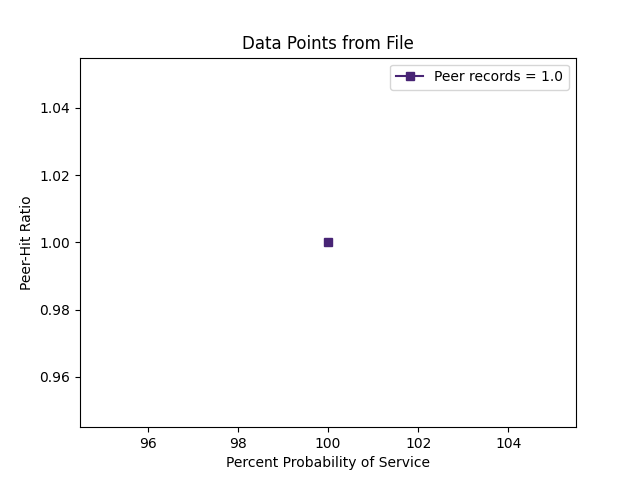
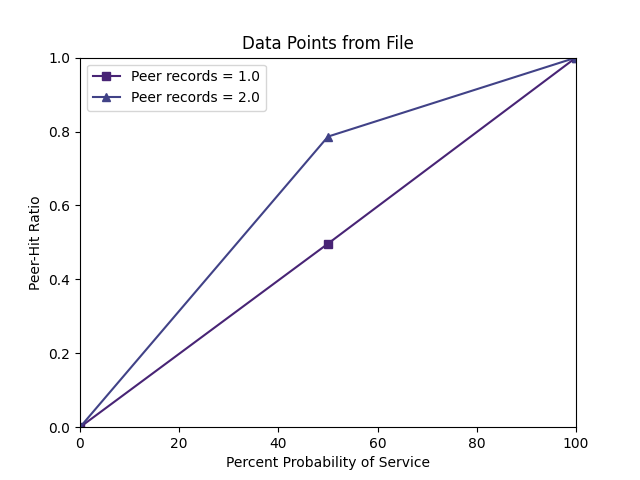
fixes for all experiment related issues and verbosity drop for experiment

diff --git a/service.py b/service.py
@@ -18,14 +18,14 @@ SERVICE_SOCKET_TIMEOUT_S = 5
 # Experiment configuration
 
 # to configure
-EXPERIMENT_START_EXPECTED_PARTICIPANTS = 3
+EXPERIMENT_START_EXPECTED_PARTICIPANTS = 5
 EXPERIMENT_ANSWER_PROBABILITY_PCENT_MIN = 0
 EXPERIMENT_ANSWER_PROBABILITY_PCENT_MAX = 100
-EXPERIMENT_ANSWER_PROBABILITY_PCENT_INTERVAL = 50
+EXPERIMENT_ANSWER_PROBABILITY_PCENT_INTERVAL = 20
 SHOULD_PEER_REASK = 0
 RECORDS_TO_ACQUIRE_MIN = 1
-RECORDS_TO_ACQUIRE_MAX = 2
-QUERIES_PER_EXPERIMENT = 10
+RECORDS_TO_ACQUIRE_MAX = 5
+QUERIES_PER_EXPERIMENT = 50
 
 # orchestation
 EXPERIMENT_READY_PARTICIPANTS_LOCK = threading.Lock()
@@ -77,19 +77,22 @@ def analysis_clear_data_file():
 
 def analysis_write_point(records_returned_line,answer_prob,total,direct):
     with open(data_filename,"a") as file:
+        if total == 0:
+            print("{RED}OK now it's verified that for some reason we get 0 total requests on the counter{RESET}",flush=True)
+            exit()
         peer_hit_ratio = (float)(total-direct) / (float)(total)
         to_write = f"{records_returned_line} {answer_prob} {peer_hit_ratio}\n"
         file.write(to_write)
     return
 
 def experiment_counters_reset():
-    SharedVarsExperiment.SS_REQUESTS_RECEIVED = 0
-    SharedVarsExperiment.SS_REQUESTS_DIRECT = 0
+    with SharedVarsExperiment.SS_COUNTERS_LOCK:
+        SharedVarsExperiment.SS_REQUESTS_RECEIVED = 0
+        SharedVarsExperiment.SS_REQUESTS_DIRECT = 0
 
 def start_experiment():
 
     analysis_clear_data_file()
-    global EXPERIMENT_PARTICIPANTS_SOCKETS
     global SHOULD_PEER_REASK
     global RECORDS_TO_ACQUIRE_MIN
     global RECORDS_TO_ACQUIRE_MAX
@@ -97,10 +100,7 @@ def start_experiment():
     global EXPERIMENT_ANSWER_PROBABILITY_PCENT_MIN
     global EXPERIMENT_ANSWER_PROBABILITY_PCENT_MAX
     global EXPERIMENT_ANSWER_PROBABILITY_PCENT_INTERVAL
-    global EXPERIMENT_READY_PARTICIPANTS_LOCK
-    global EXPERIMENT_PARTICIPANTS_COUNTER
     global EXPERIMENT_PARTICIPANTS_SOCKETS
-    global EXPERIMENT_START_EXPECTED_PARTICIPANTS
     global IS_EXPERIMENT
 
     print(f"{CYAN}Experiments will start in 5 seconds!{RESET}")
@@ -121,6 +121,7 @@ def start_experiment():
 
     experiment_counter = 0
 
+    SECONDS_EXPERIMENT_BEGIN = time.time()
     for RECS_TO_GET in range(RECORDS_TO_ACQUIRE_MIN,RECORDS_TO_ACQUIRE_MAX+1):
         for ANS_PROB in range(EXPERIMENT_ANSWER_PROBABILITY_PCENT_MIN,EXPERIMENT_ANSWER_PROBABILITY_PCENT_MAX+1,EXPERIMENT_ANSWER_PROBABILITY_PCENT_INTERVAL):
 
@@ -128,6 +129,8 @@ def start_experiment():
             SharedVarsExperiment.RECORDS_TO_ACQUIRE_PER_QUERY = RECS_TO_GET
             SharedVarsExperiment.OVERRIDE_AVAILABILITY_CHECKS_ON_EARLY_REASKS = 1
             experiment_counter+=1
+            EXPERIMENT_COUNTER_BYTES = struct.pack('<I',(int)(experiment_counter))
+            send_to_all_client_sockets(EXPERIMENT_PARTICIPANTS_SOCKETS,EXPERIMENT_COUNTER_BYTES)
             ANS_PROB_BYTES = struct.pack('<I',(int)( ANS_PROB ) )
             send_to_all_client_sockets(EXPERIMENT_PARTICIPANTS_SOCKETS,ANS_PROB_BYTES)
             REASK_BYTES = b"YES" if (SHOULD_PEER_REASK>0) else b"NOP"
@@ -138,6 +141,8 @@ def start_experiment():
             # reset the counters of the experiment
             experiment_counters_reset()
 
+            time.sleep(2) # We are giving all the experiment threads on the devices time to read the data send before we send the signal to start this instance of the experiment
+
             print(f"{CYAN}\nNow on experiment #{experiment_counter}\n" +
                     f"Serving peer records received per query = {RECS_TO_GET}\n" +
                     f"Serving probability = {ANS_PROB}%\n"
@@ -146,12 +151,21 @@ def start_experiment():
             # send the signal to start
             send_to_all_client_sockets(EXPERIMENT_PARTICIPANTS_SOCKETS,b"START")
 
+            # the devices run the experiment independetly
+            print(f"{CYAN}Experiment #{experiment_counter} is now running. The START signal was send to all the epxeriment participants{RESET}")
+
             # wait for all of the partiicipants to send back that they have finished
             for client_socket in EXPERIMENT_PARTICIPANTS_SOCKETS:
                 is_finished = blocking_receive_all(client_socket,4)
                 # let's not check what kind of string we receive just get 4 bytes
 
+            print(f"{CYAN}All devices have returned their DONE for experiment #{experiment_counter}{RESET}")
+
             analysis_write_point(RECS_TO_GET,ANS_PROB,SharedVarsExperiment.SS_REQUESTS_RECEIVED,SharedVarsExperiment.SS_REQUESTS_DIRECT)
+
+    SECONDS_EXPERIMENT_END = time.time()
+    SECONDS_FOR_ALL_EXPERIMENTS = SECONDS_EXPERIMENT_END - SECONDS_EXPERIMENT_BEGIN
+    print(f"{CYAN}The time taken for ALL experiments to run was {SECONDS_FOR_ALL_EXPERIMENTS} seconds.{RESET}")
 
     analysis_generate_graph()
 
@@ -326,6 +340,7 @@ def handle_client(client_socket,client_address):
             else:
                 print(f"{RED}CRDS request REPLY to {client_address} fail!{RESET}")
         elif option == "EXPR":
+            client_socket.settimeout(0) # We expect this to cause the socket to never drop the connection
             # a client declares readiness to join an experiment
             global IS_EXPERIMENT
             if not IS_EXPERIMENT:

diff --git a/P2P_relay_server.py b/P2P_relay_server.py
@@ -53,12 +53,12 @@ class QueryingNodeDict(dict):
 # dynamic choices every time (e.g. 5 to 10 records per query), or based on some metric
 # related to a certain node (e.g. reputation, querying frequency).
 def records_to_return(my_name):
-    print(f"{MAGENTA}Records to acquire per query = {SharedVarsExperiment.RECORDS_TO_ACQUIRE_PER_QUERY}{RESET}",flush=True)
+    # print(f"{MAGENTA}Records to acquire per query = {SharedVarsExperiment.RECORDS_TO_ACQUIRE_PER_QUERY}{RESET}",flush=True)
     choice = SharedVarsExperiment.RECORDS_TO_ACQUIRE_PER_QUERY
     # We can't send more than we have
     my_records = len([e for e in SERVING_NODE_LIST if e['name'] == my_name])
     num_of_records = min(choice,len(SERVING_NODE_LIST)-my_records)
-    print(f"{ORANGE}records to return for {my_name} are {num_of_records}{RESET}")
+    # print(f"{ORANGE}records to return for {my_name} are {num_of_records}{RESET}")
     return num_of_records
 
 # Function to receive a CLIENT HELLO message of the format:
@@ -261,7 +261,7 @@ def get_client_availability(client_socket, client_address, node_cert, timestamp_
     timestamp_field = time.time()
 
     result = ServingNodeDict(name_field,ip_field,port_field,timestamp_field)
-    print(f"{GREEN}Disclosure from {client_address}:" + name_to_CN_only(name_field) + f" received successfully:\n{result}{RESET}",flush=True)
+    # print(f"{GREEN}Disclosure from {client_address}:" + name_to_CN_only(name_field) + f" received successfully:\n{result}{RESET}",flush=True)
 
     return result
 
@@ -271,7 +271,7 @@ def get_client_availability(client_socket, client_address, node_cert, timestamp_
 # returns Nothing. It is fully responsible to handle the connection.
 def handle_availability_client(client_socket, client_address):
 
-    print(f"{YELLOW}New availability disclosure from {client_address}{RESET}",flush=True)
+    # print(f"{YELLOW}New availability disclosure from {client_address}{RESET}",flush=True)
 
     # client hello to get the node's certificate
     node_cert, timestamp_data = client_hello(client_socket, client_address, True)
@@ -383,7 +383,7 @@ def send_query_records(records,client_socket,client_address,client_certificate):
 # returns Nothing. It is fully responsible to handle the connection.
 def handle_query_client(client_socket, client_address):
 
-    print(f"{YELLOW}New peer discovery query from {client_address}{RESET}",flush=True)
+    # print(f"{YELLOW}New peer discovery query from {client_address}{RESET}",flush=True)
 
     # client_hello to get the node's certificate
     node_cert = client_hello(client_socket, client_address, False)

diff --git a/signing_server.py b/signing_server.py
@@ -17,18 +17,20 @@ FWD_SERVER_PORT = 50003
 MAX_SS_CONNECTIONS = 40 # How many signing requests will we be trying to answer simultaneously
 SS_CERTIFICATE = retrieve_CA_certificate()
 SS_PRIVATE = retrieved_CA_private()
+TRIED_LOADING_LOCK = threading.Lock()
 TRIED_LOADING_CACHE = 0
 
 def fullfil_URL_request(requestURL):
 
-    global TRIED_LOADING_CACHE
-    if not TRIED_LOADING_CACHE:
-        loaded = data_loading()
-        if not loaded:
-            print(f"{RED}Error: Could not load cache!{RESET}")
-        else:
-            print(f"{GREEN}First time: Cache loaded successfully!{RESET}")
-        TRIED_LOADING_CACHE = 1
+    with TRIED_LOADING_LOCK:
+        global TRIED_LOADING_CACHE
+        if not TRIED_LOADING_CACHE:
+            loaded = data_loading()
+            if not loaded:
+                print(f"{RED}Error: Could not load cache!{RESET}")
+            else:
+                print(f"{GREEN}First time: Cache loaded successfully!{RESET}")
+            TRIED_LOADING_CACHE = 1
 
     cached_record = data_record_retrieve(requestURL)
     if cached_record != None:
@@ -262,7 +264,9 @@ def handle_ss_client(client_socket, client_address):
     # checking the option
     option = receive_all(client_socket,5)
 
-    SharedVarsExperiment.SS_REQUESTS_RECEIVED += 1
+    with SharedVarsExperiment.SS_COUNTERS_LOCK:
+        SharedVarsExperiment.SS_REQUESTS_RECEIVED = SharedVarsExperiment.SS_REQUESTS_RECEIVED + 1
+        print(f"{CYAN}Requests for this experiment are now = {SharedVarsExperiment.SS_REQUESTS_RECEIVED}{RESET}")
 
     # PROXY: a serving node is requesting the fields for replying to a querying node
     if option == b"PROXY":
@@ -271,7 +275,11 @@ def handle_ss_client(client_socket, client_address):
 
     # DIREC: a querying node couldn't find any peers and it has to directly query the ss
     if option == b"DIREC":
-        SharedVarsExperiment.SS_REQUESTS_DIRECT += 1
+        
+        with SharedVarsExperiment.SS_COUNTERS_LOCK:
+            SharedVarsExperiment.SS_REQUESTS_DIRECT = SharedVarsExperiment.SS_REQUESTS_DIRECT + 1
+            print(f"{CYAN}DIRECT requests for this experiment are now = {SharedVarsExperiment.SS_REQUESTS_DIRECT}{RESET}")
+
         direct_handle(client_socket,client_address)
         return
 

diff --git a/SharedVarsExperiment.py b/SharedVarsExperiment.py
@@ -1,4 +1,6 @@
+import threading
 RECORDS_TO_ACQUIRE_PER_QUERY = 2
 OVERRIDE_AVAILABILITY_CHECKS_ON_EARLY_REASKS = 0
+SS_COUNTERS_LOCK = threading.Lock()
 SS_REQUESTS_RECEIVED = 0
 SS_REQUESTS_DIRECT = 0
